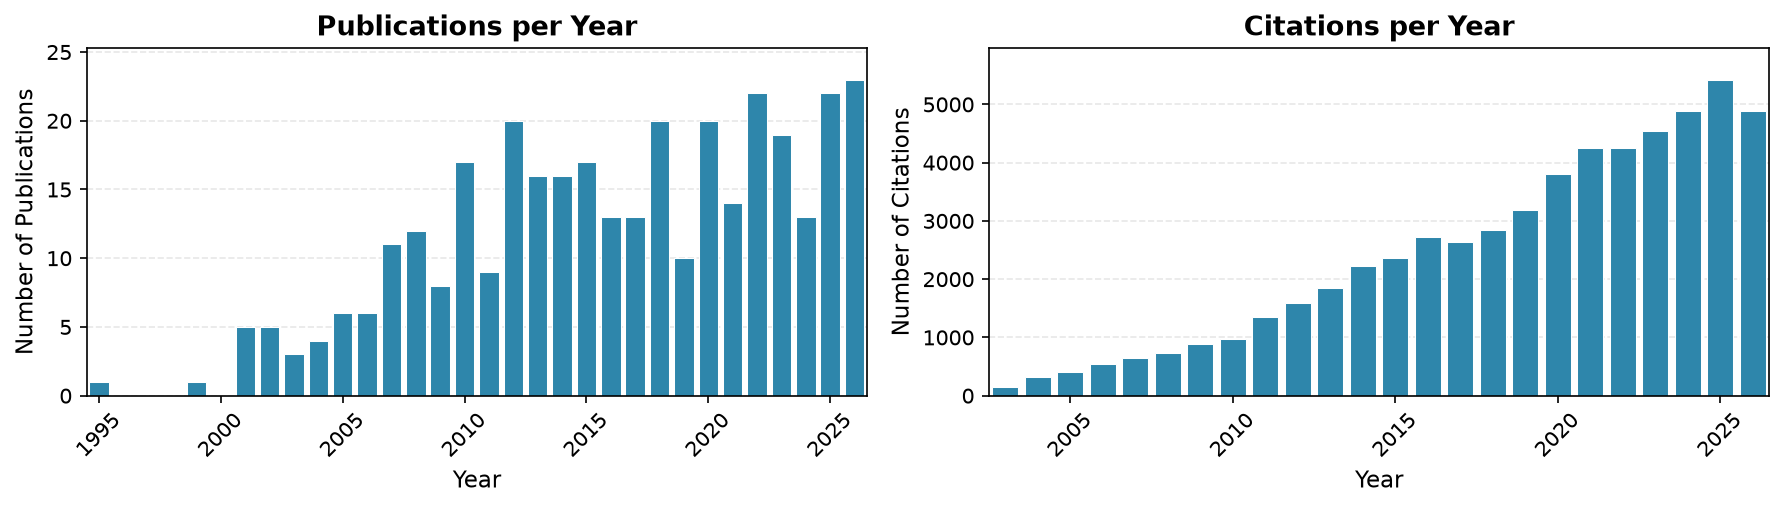
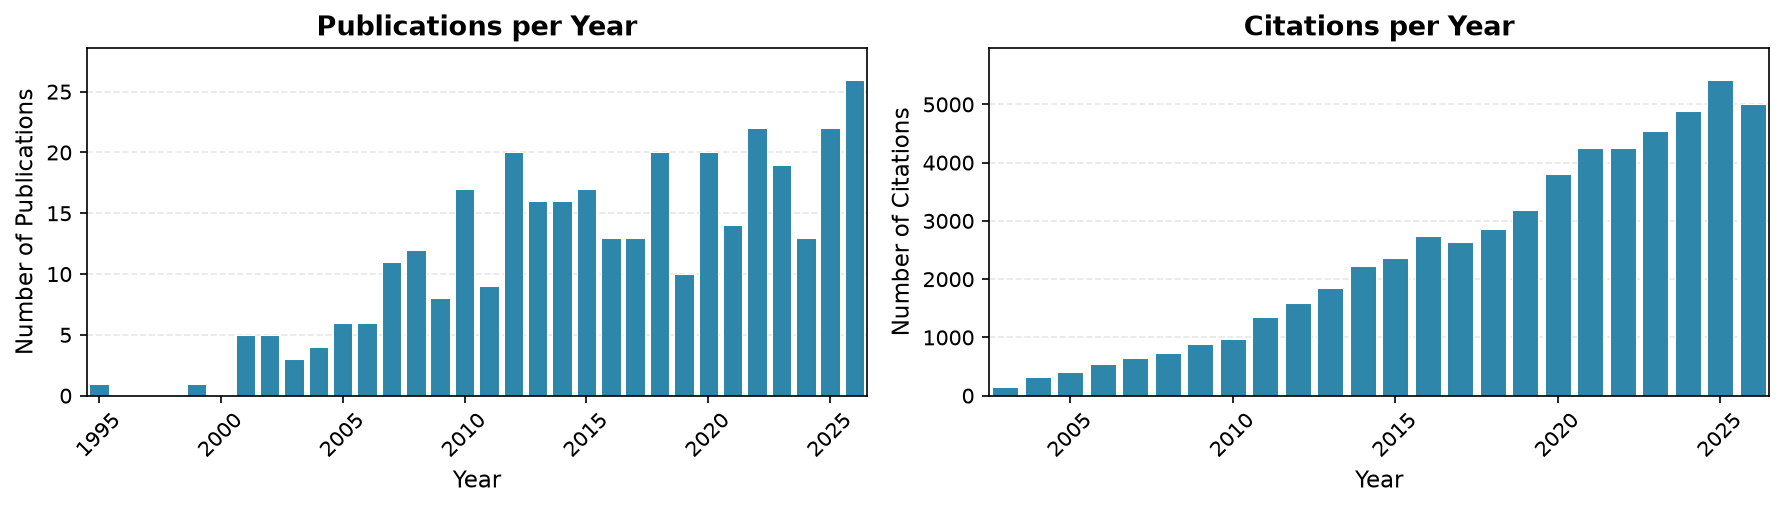
Update publication metrics and citation counts

diff --git a/pages/publications.md b/pages/publications.md
@@ -10,20 +10,20 @@ View our complete publication list on [Google Scholar](https://scholar.google.co
 
 ## Publication Metrics
 
-- **Total Publications**: 346 (331 peer-reviewed + 15 preprints)
-- **Total Citations**: 58,086 ([Google Scholar](https://scholar.google.com/citations?user=icweOB0AAAAJ&hl=en))
-- **h-index**: 106
-- **Most Cited Paper**: "Skyline: an open source document editor for creating and analyzing targeted proteomics experiments" (5,611 citations)
+- **Total Publications**: 349 (332 peer-reviewed + 17 preprints)
+- **Total Citations**: 58,226 ([Google Scholar](https://scholar.google.com/citations?user=icweOB0AAAAJ&hl=en))
+- **h-index**: 107
+- **Most Cited Paper**: "Skyline: an open source document editor for creating and analyzing targeted proteomics experiments" (5,616 citations)
 
 ![Publication and Citation Metrics](../assets/images/publication-metrics.png)
 
-*Last updated: November 14, 2026 — 346 publications*
+*Last updated: November 23, 2026 — 349 publications*
 
 ## Publications by Year
 
 <div class="publications-container">
 <div class="year-navigation">
-<button class="year-button active" onclick="showYear(event, '2026')">2026 (23)</button>
+<button class="year-button active" onclick="showYear(event, '2026')">2026 (26)</button>
 <button class="year-button" onclick="showYear(event, '2025')">2025 (22)</button>
 <button class="year-button" onclick="showYear(event, '2024')">2024 (13)</button>
 <button class="year-button" onclick="showYear(event, '2023')">2023 (19)</button>
@@ -57,6 +57,21 @@ View our complete publication list on [Google Scholar](https://scholar.google.co
 <div id="year-2026" class="year-content active" markdown="1">
 
 ### 2026
+
+**Improving real-time search through deep learning-enhanced fragment ion indexing**
+Eng JK, Hoopmann MR, Schweppe DK, MacCoss MJ, Noble WS, Wen B
+*bioRxiv : the preprint server for biology* 2026 Nov
+<a href="https://pubmed.ncbi.nlm.nih.gov/43060267/">PubMed<span class="visually-hidden"> for &#8220;Improving real-time search through deep learning-enhanced fragment ion indexing&#8221;</span></a> | <a href="https://doi.org/10.64898/2026.10.27.762387">DOI<span class="visually-hidden"> for &#8220;Improving real-time search through deep learning-enhanced fragment ion indexing&#8221;</span></a>
+
+**Peptide-centric proteomics reveals molecular subtypes of sporadic Alzheimer's disease**
+Plubell D, Merrihew G, Park J, Patterson K, Smith JD, Hsu C, Wu CC, Keene CD, Montine T, MacCoss MJ
+*bioRxiv : the preprint server for biology* 2026 Nov
+<a href="https://pubmed.ncbi.nlm.nih.gov/43059869/">PubMed<span class="visually-hidden"> for &#8220;Peptide-centric proteomics reveals molecular subtypes of sporadic Alzheimer&#x27;s disease&#8221;</span></a> | <a href="https://doi.org/10.64898/2026.11.12.766321">DOI<span class="visually-hidden"> for &#8220;Peptide-centric proteomics reveals molecular subtypes of sporadic Alzheimer&#x27;s disease&#8221;</span></a>
+
+**Hypothalamic volume and cell-type changes in ageing and Alzheimer's disease**
+Yu D, Germann J, Murtaza G, Hajdarovic KH, Babcock KR, Dehkordi SK, Jackson AC, Delalle I, Orr ME, Zare H, Singh R, MacCoss MJ, Noble WS, Vlassenko AG, Goyal MS, Webb AE
+*Nature* 2026 Nov
+<a href="https://pubmed.ncbi.nlm.nih.gov/43052445/">PubMed<span class="visually-hidden"> for &#8220;Hypothalamic volume and cell-type changes in ageing and Alzheimer&#x27;s disease&#8221;</span></a> | <a href="https://doi.org/10.1038/s41586-026-11305-w">DOI<span class="visually-hidden"> for &#8220;Hypothalamic volume and cell-type changes in ageing and Alzheimer&#x27;s disease&#8221;</span></a>
 
 **Liver Fatty Acid Binding Protein (FABP1) Affects Cytochrome P450 2C9 (CYP2C9)-Mediated Metabolism in Human Liver Models**
 Wen YW, Friedman E, Zelter A, Yabut KC, Nath A, MacCoss MJ, Isoherranen N

diff --git a/pages/resources.md b/pages/resources.md
@@ -91,7 +91,7 @@ Example publications describing the Stellar from the MacCoss lab include:
 - **External Tools**: Skyline has an external tool framework. We have a [tool store](http://skyline.ms/tools.url) with 20 tools currently available.
 - **Source Code** is available as part of the [Proteowizard project](https://github.com/ProteoWizard/pwiz).
 - **Original Publication** MacLean et al, [Skyline: an open source document editor for creating and analyzing targeted proteomics experiments](https://academic.oup.com/bioinformatics/article/26/7/966/212410), *Bioinformatics* 2010
-- **Cited:** 5,611 times
+- **Cited:** 5,616 times
 
 ### ![Proteowizard](../assets/images/logos/proteowizard-logo.jpg "Proteowizard")
 **Widely used software tools and libraries for mass spectrometry data analysis.**
@@ -99,7 +99,7 @@ Example publications describing the Stellar from the MacCoss lab include:
 - **Download and Documentation:** [https://proteowizard.sourceforge.io/](https://proteowizard.sourceforge.io/)
 - **Source Code:** Available on [Github](https://github.com/ProteoWizard/pwiz) and licensed under Apache 2.0.
 - **Original Publication:** Chambers et al, [A cross-platform toolkit for mass spectrometry and proteomics](https://www.nature.com/articles/nbt.2377), *Nature Biotechnology* 2012
-- **Cited:** 5,020 times
+- **Cited:** 5,040 times
 
 ### ![Panorama](../assets/images/logos/panorama_logo_h_onwhite_border.png "Panorama")
 **Web-based repository for Skyline documents and colaboration**
